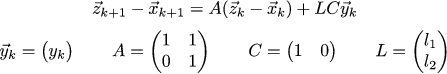
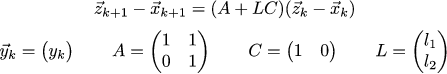
f

Changed region(s): [[0.3199, 0.0, 0.8143, 0.2432], [0.2036, 0.027, 0.2908, 0.2432]]

diff --git a/tutorials/lqr2-observer/f260.tex b/tutorials/lqr2-observer/f260.tex
@@ -4,7 +4,7 @@
 \thispagestyle{empty}
 
 $$
-\vec{z}_{k+1}-\vec{x}_{k+1} = A(\vec{z}_k-\vec{x}_k) + LC \vec{y}_k
+\vec{z}_{k+1}-\vec{x}_{k+1} = (A+LC)(\vec{z}_k-\vec{x}_k)
 $$
 $$
 \vec{y}_k=\begin{pmatrix}y_k\end{pmatrix}\qquad A=\begin{pmatrix} 1 & 1 \\ 0 & 1\end{pmatrix} \qquad C=\begin{pmatrix}1 & 0\end{pmatrix} \qquad L=\begin{pmatrix}l_1 \\ l_2\end{pmatrix}
